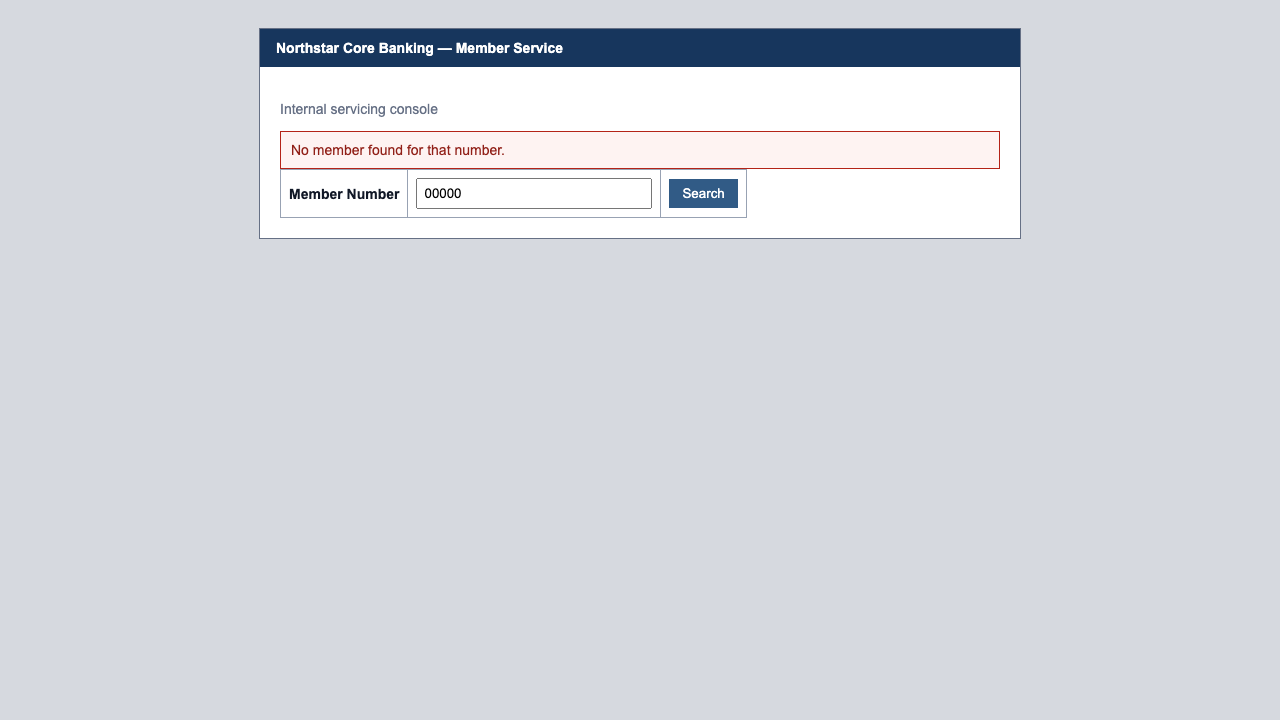
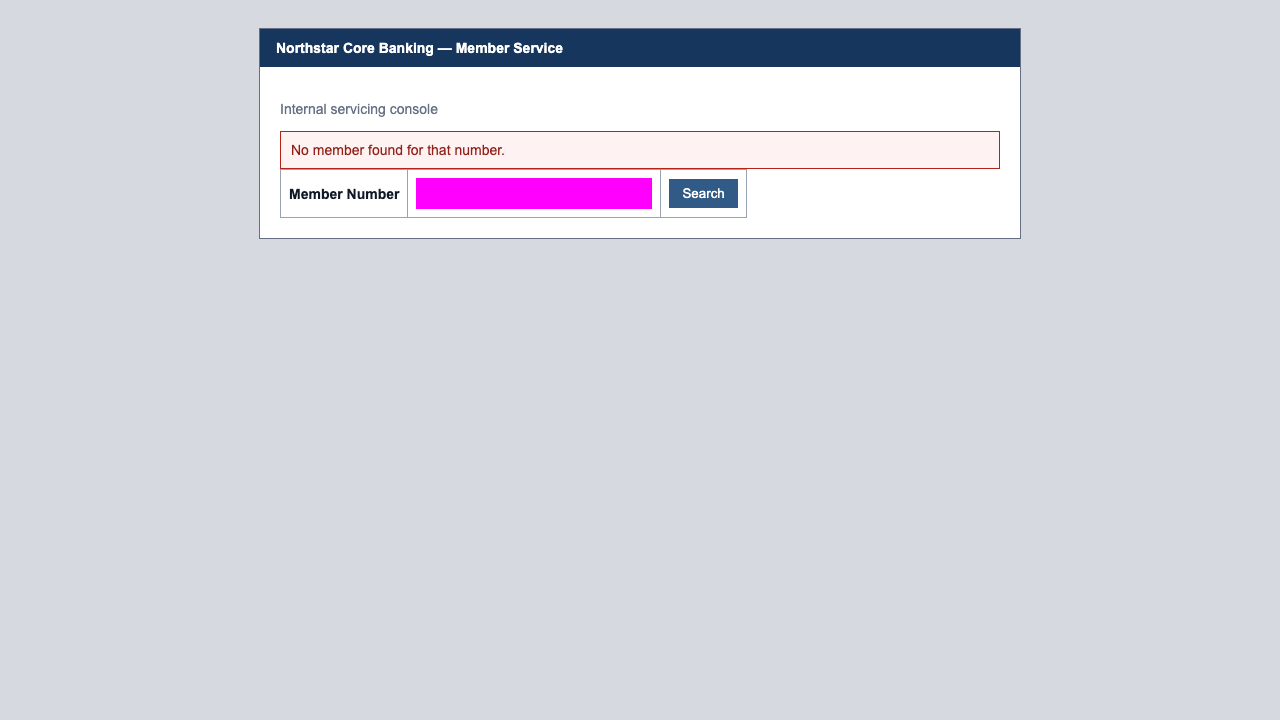
Demonstrate handoff and redact sensitive outputs

Changed region(s): [[0.3125, 0.2444, 0.5312, 0.3056]]

diff --git a/scripts/cli.ts b/scripts/cli.ts
@@ -16,13 +16,14 @@ import { PlaywrightWebSurface } from "../packages/surface/src/index.js";
 import { compileCapability } from "../packages/profiles/src/index.js";
 import { ActionPolicy } from "../packages/policy/src/index.js";
 import { approveArtifact, assessStability } from "../packages/approval/src/index.js";
+import { HandoffController, type InterventionRequest } from "../packages/handoff/src/index.js";
 
 type CliOptions = Record<string, string>;
 
 export function parseCliArgs(arguments_: string[]): { command: string; options: CliOptions } {
   const [command, ...rest] = arguments_;
-  if (!command || !["discover", "replay", "exceptional", "qualify"].includes(command)) {
-    throw new Error("Usage: cli.ts <discover|replay|exceptional|qualify> [--key value]");
+  if (!command || !["discover", "replay", "exceptional", "qualify", "handoff"].includes(command)) {
+    throw new Error("Usage: cli.ts <discover|replay|exceptional|qualify|handoff> [--key value]");
   }
   const options: CliOptions = {};
   for (let index = 0; index < rest.length; index += 2) {
@@ -37,20 +38,77 @@ export function parseCliArgs(arguments_: string[]): { command: string; options: 
 export async function runCli(arguments_: string[]): Promise<unknown> {
   const { command, options } = parseCliArgs(arguments_);
   const port = Number(options.port ?? 4173);
-  if (!Number.isInteger(port) || port < 1 || port > 65_535) throw new Error("--port must be a valid TCP port");
+  if (!Number.isInteger(port) || port < 0 || port > 65_535) throw new Error("--port must be a valid TCP port");
   const server = await startTargetServer(port);
+  const address = server.address();
+  if (!address || typeof address === "string") throw new Error("Target server has no TCP port");
+  const actualPort = address.port;
   try {
-    if (command === "discover") return await discover(options, port);
-    if (command === "qualify") return await qualify(options, port);
-    if (command === "replay") return await replay(options, port, command);
+    if (command === "discover") return await discover(options, actualPort);
+    if (command === "qualify") return await qualify(options, actualPort);
+    if (command === "handoff") return await handoffDemo(options, actualPort);
+    if (command === "replay") return await replay(options, actualPort, command);
     return await replay({
       ...options,
       artifact: options.artifact ?? "capabilities/read_savings_balance.json",
       "member-id": "00000",
       output: options.output ?? "evidence/exceptional-run/result.json"
-    }, port, command);
+    }, actualPort, command);
   } finally {
     await new Promise<void>((resolveClose, reject) => server.close((error) => error ? reject(error) : resolveClose()));
+  }
+}
+
+async function handoffDemo(options: CliOptions, port: number) {
+  const artifactPath = resolve(options.artifact ?? "capabilities/read_savings_balance.json");
+  const output = resolve(options.output ?? "evidence/handoff/result.json");
+  const evidenceDirectory = `${output.slice(0, -5)}-run`;
+  const memberId = options["member-id"] ?? "67890";
+  const artifact = JSON.parse(await readFile(artifactPath, "utf8"));
+  artifact.lifecycle = "draft";
+  delete artifact.approval;
+  artifact.capability.target.entrypoint = `http://127.0.0.1:${port}/members?scenario=blocked`;
+  const searchStep = artifact.steps.find((step: { id?: string }) => step.id === "search_member");
+  if (searchStep) searchStep.timeoutMs = 1_000;
+  const observer = new FileRunObserver(evidenceDirectory, new Redactor([memberId]));
+  const surface = await PlaywrightWebSurface.launch({ headless: options.headless !== "false" });
+  let routed: InterventionRequest | undefined;
+  let handoff: HandoffController;
+  handoff = new HandoffController(surface, {
+    evidenceDirectory,
+    router: {
+      async route(request) {
+        routed = request;
+        const operator = handoff.takeControl(options.operator ?? "demo_operator");
+        await operator.click({
+          description: "Blocking host dialog dismissal",
+          locators: [{ strategy: "role", role: "button", value: "Dismiss blocking dialog", exact: true }],
+          requireUnique: true
+        });
+        operator.resume("Dismissed the unexpected host notice; resume the recorded step");
+      }
+    }
+  });
+  try {
+    const result = await new ReplayEngine(surface, undefined, handoff, observer).run(artifact, { member_id: memberId });
+    const demonstration = {
+      ...result,
+      intervention: routed ? {
+        requestId: routed.id,
+        stepId: routed.stepId,
+        failureCode: routed.failure.code,
+        operator: options.operator ?? "demo_operator",
+        action: "Dismiss blocking dialog",
+        note: "Dismissed the unexpected host notice; resume the recorded step",
+        resumed: result.status === "success"
+      } : undefined
+    };
+    await mkdir(dirname(output), { recursive: true });
+    await writeFile(output, `${JSON.stringify(demonstration, null, 2)}\n`);
+    await surface.screenshot(resolve(evidenceDirectory, "final.png"), { maskSensitive: true });
+    return { ...demonstration, result: output };
+  } finally {
+    await surface.close();
   }
 }
 

diff --git a/tests/cli.test.ts b/tests/cli.test.ts
@@ -1,6 +1,9 @@
 import assert from "node:assert/strict";
+import { mkdtemp, readFile } from "node:fs/promises";
+import { tmpdir } from "node:os";
+import { join } from "node:path";
 import { test } from "node:test";
-import { parseCliArgs } from "../scripts/cli.js";
+import { parseCliArgs, runCli } from "../scripts/cli.js";
 
 test("parses reviewer CLI commands and options", () => {
   assert.deepEqual(parseCliArgs(["discover", "--mode", "scripted", "--member-id", "12345"]), {
@@ -13,6 +16,27 @@ test("parses artifact qualification options", () => {
   assert.deepEqual(parseCliArgs(["qualify", "--runs", "3", "--reviewer", "qasim@example.test"]), {
     command: "qualify", options: { runs: "3", reviewer: "qasim@example.test" }
   });
+});
+
+test("runs a reviewer-facing handoff demo and redacts its sensitive output log", async () => {
+  const directory = await mkdtemp(join(tmpdir(), "automation-handoff-"));
+  const output = join(directory, "result.json");
+  const result = await runCli([
+    "handoff", "--port", "0", "--member-id", "67890", "--operator", "reviewer", "--output", output
+  ]) as {
+    status: string;
+    outputs: { current_balance: string };
+    intervention: { requestId: string; stepId: string; failureCode: string; operator: string; resumed: boolean };
+  };
+  assert.equal(result.status, "success");
+  assert.equal(result.outputs.current_balance, "$912.04");
+  assert.equal(result.intervention.stepId, "search_member");
+  assert.equal(result.intervention.failureCode, "timeout");
+  assert.equal(result.intervention.operator, "reviewer");
+  assert.equal(result.intervention.resumed, true);
+  const events = await readFile(join(directory, "result-run", "events.jsonl"), "utf8");
+  assert.doesNotMatch(events, /\$912\.04/);
+  assert.match(events, /"current_balance":"\[REDACTED\]"/);
 });
 
 test("rejects unknown commands and incomplete options", () => {

diff --git a/apps/target/src/server.ts b/apps/target/src/server.ts
@@ -10,6 +10,8 @@ body{font:14px Arial,sans-serif;background:#d6d9df;margin:0;color:#111827}table{
 .content{padding:20px}td{padding:8px;border:1px solid #98a2b3}label{font-weight:bold}input{padding:6px;width:220px}
 button,a.button{display:inline-block;background:#315b86;color:#fff;border:0;padding:7px 13px;text-decoration:none;cursor:pointer}
 .notice{padding:10px;border:1px solid #b42318;background:#fef3f2;color:#912018}.muted{color:#667085}
+.blocker{position:fixed;inset:0;background:rgba(17,24,39,.72);display:flex;align-items:center;justify-content:center;z-index:10}
+.dialog{background:#fff;padding:24px;border:2px solid #17365d;max-width:360px}
 </style></head><body><div class="shell"><div class="bar">Northstar Core Banking — Member Service</div><div class="content">${body}</div></div></body></html>`;
 
 type TenantVariant = {
@@ -33,7 +35,10 @@ const searchPage = (variant: TenantVariant, message = "", memberId = "", scenari
     <td><input id="member-number" name="${variant.idField}" value="${memberId}" inputmode="numeric" autocomplete="off"></td>
     <td><button type="submit">${variant.searchLabel}</button></td></tr></table>
     ${scenario ? `<input type="hidden" name="scenario" value="${scenario}">` : ""}
-  </form>`);
+  </form>
+  ${scenario === "blocked" ? `<div class="blocker" role="dialog" aria-label="Unexpected host notice">
+    <div class="dialog"><p>An unexpected host notice is blocking automation.</p>
+    <button type="button" onclick="this.closest('.blocker').remove()">Dismiss blocking dialog</button></div></div>` : ""}`);
 
 export function createRequestHandler() {
   const transientAttempts = new Map<string, number>();

diff --git a/packages/discovery/src/discovery.ts b/packages/discovery/src/discovery.ts
@@ -118,7 +118,10 @@ export class DiscoveryRunner {
           success: action.success,
           metadata: { createdAt: new Date().toISOString(), discoveryRunId: runId }
         });
-        await this.observer.record({ runId, phase: "discovery", type: "run_succeeded", details: { outputs } });
+        await this.observer.record({
+          runId, phase: "discovery", type: "run_succeeded",
+          details: { outputs: redactSensitiveOutputs(request.contract, outputs) }
+        });
         return { runId, artifact, outputs, turns };
       }
 
@@ -240,6 +243,16 @@ function validateCompleteOutputs(contract: DiscoveryRequest["contract"], outputs
     if (!(output.name in outputs)) throw new Error(`Required output ${output.name} was not produced`);
     validateOutput(output.name, outputs[output.name], contract);
   }
+}
+
+function redactSensitiveOutputs(
+  contract: DiscoveryRequest["contract"],
+  outputs: Record<string, unknown>
+): Record<string, unknown> {
+  const sensitive = new Set(contract.outputs.filter((output) => output.sensitive).map((output) => output.name));
+  return Object.fromEntries(
+    Object.entries(outputs).map(([name, value]) => [name, sensitive.has(name) ? "[REDACTED]" : value])
+  );
 }
 
 function remaining(deadline: number): number {

diff --git a/packages/replay/src/replay.ts b/packages/replay/src/replay.ts
@@ -84,7 +84,10 @@ export class ReplayEngine {
       }
       validateOutputs(artifact, outputs);
       await this.verify(artifact.success, artifact, inputs);
-      await this.observer.record({ runId, phase: "replay", type: "run_succeeded", details: { outputs } });
+      await this.observer.record({
+        runId, phase: "replay", type: "run_succeeded",
+        details: { outputs: redactSensitiveOutputs(artifact, outputs) }
+      });
       return replayResultSchema.parse({
         runId,
         capabilityName: artifact.capability.name,
@@ -318,6 +321,18 @@ function validateOutputs(artifact: CapabilityArtifact, outputs: Record<string, u
       throw new ExecutionError("output_invalid", `Output ${declaration.name} did not match its declared pattern`, declaration.pattern, String(value));
     }
   }
+}
+
+function redactSensitiveOutputs(
+  artifact: CapabilityArtifact,
+  outputs: Record<string, unknown>
+): Record<string, unknown> {
+  const sensitive = new Set(
+    artifact.contract.outputs.filter((output) => output.sensitive).map((output) => output.name)
+  );
+  return Object.fromEntries(
+    Object.entries(outputs).map(([name, value]) => [name, sensitive.has(name) ? "[REDACTED]" : value])
+  );
 }
 
 function messageOf(error: unknown): string {

diff --git a/packages/discovery/src/member-balance-plan.ts b/packages/discovery/src/member-balance-plan.ts
@@ -25,6 +25,7 @@ export function memberBalanceRequest(entrypoint: string, memberId: string): Disc
       inputs: [{ name: "member_id", type: "string", description: "Member number", required: true, sensitive: true }],
       outputs: [{
         name: "current_balance", type: "string", description: "Displayed savings balance",
+        sensitive: true,
         pattern: "^\\$[0-9,]+\\.[0-9]{2}$"
       }]
     },

diff --git a/packages/contracts/src/capability.ts b/packages/contracts/src/capability.ts
@@ -68,7 +68,8 @@ export const capabilityArtifactSchema = z.object({
   }),
   contract: z.object({
     inputs: z.array(parameterSchema),
-    outputs: z.array(parameterSchema.omit({ required: true, sensitive: true }).extend({
+    outputs: z.array(parameterSchema.omit({ required: true }).extend({
+      sensitive: z.boolean().optional(),
       pattern: z.string().min(1).optional()
     }))
   }),

diff --git a/REPORT.md b/REPORT.md
@@ -14,7 +14,7 @@ I chose a local member-service app instead of a public demo site. That makes the
 
 The artifact is versioned JSON validated at load time. Its top-level contract identifies the capability and target, declares typed inputs and outputs, stores the ordered steps, defines known business outcomes, and ends with an explicit success checkpoint. Metadata links it back to the discovery run without embedding the raw model transcript. Discovery emits a `draft`; qualification can promote it to `approved` with reviewer identity, timestamp, stability results, and a SHA-256 digest over the executable payload.
 
-Each step describes one action and its intent, enforced timeout, optional retry budget, risk classification, and checkpoint. Targets carry an ordered list of locator candidates plus a uniqueness requirement. Inputs are referenced as `${inputs.member_id}` rather than captured values, and outputs may declare a semantic pattern; the balance contract, for example, refuses to accept the label “Current Balance” as though it were a dollar amount. Validation also rejects duplicate identifiers, unknown template references, and outputs without exactly one extraction step.
+Each step describes one action and its intent, enforced timeout, optional retry budget, risk classification, and checkpoint. Targets carry an ordered list of locator candidates plus a uniqueness requirement. Inputs are referenced as `${inputs.member_id}` rather than captured values, and outputs may declare a semantic pattern and sensitivity; the balance contract, for example, validates the currency shape but redacts its value from telemetry. Validation also rejects duplicate identifiers, unknown template references, and outputs without exactly one extraction step.
 
 The schema is deliberately data rather than generated code. It can be reviewed, diffed, signed, migrated, or rejected before execution, and the replay engine never evaluates arbitrary source text. Production-style replay can require approval and rejects both drafts and artifacts changed after review. The default qualification policy requires three successful fresh-session runs with identical outputs; its thresholds are explicit inputs rather than a vague model confidence score.
 
@@ -44,13 +44,13 @@ Replay can attach a `HandoffController` to an exhausted hard failure. The contro
 
 The operator acts through an `OperatorSession` backed by that same surface. Navigation, clicks, and fills are recorded with timestamps and operator identity, while filled values are represented as redacted descriptions. When the operator signals resume, ownership passes through `automation_resuming` and back to `automation`. Replay then gets one bounded retry of the blocked step, which covers cases such as dismissing an unfamiliar dialog or repairing session state without turning handoff into an unbounded recovery loop.
 
-The tests exercise both halves of this contract. A real Chromium test proves that the operator reaches and changes the exact page automation paused. A replay integration test injects a blocking condition, waits for human repair, resumes, and completes the previously blocked step. I intentionally did not build a polished co-browsing console; the ownership and session-transfer mechanism is the important seam.
+The tests exercise both halves of this contract. A real Chromium test proves that the operator reaches and changes the exact page automation paused. A replay integration test injects a blocking condition, waits for human repair, resumes, and completes the previously blocked step. The documented `demo:handoff` command makes that flow reviewer-runnable: it injects an unexpected blocking dialog and uses an identified demo operator at the router seam to repair and resume the same session. I intentionally did not build a polished co-browsing console; the ownership and session-transfer mechanism is the important seam.
 
 ## 6. Safety
 
 An `ActionPolicy` sits in both execution paths. It allowlists action types, origin patterns, and route patterns before the surface receives an action. Steps are treated as read-only, reversible, or irreversible; the irreversible class requires an approval provider and is denied when none is present. Irreversible steps must declare a postcondition and cannot carry automatic retries; after handoff, replay verifies that postcondition instead of repeating a possibly committed action. Policy enforcement is code, not a prompt instruction, and tests confirm that a denied replay performs no navigation.
 
-Sensitive runtime inputs are parameterized before artifact persistence. Observability recursively redacts configured values and PII-shaped keys before writing JSONL; handoff observations redact sensitive inputs and extracted data. Failure and handoff screenshots use the surface's masking mode, which covers form inputs and elements marked as sensitive or extracted data. API keys live in `.env`, which is ignored by Git, and mocked Anthropic tests ensure routine tests cannot spend money or contact the model.
+Sensitive runtime inputs are parameterized before artifact persistence, and output declarations can independently mark returned values as sensitive. Replay and discovery preserve those values in their typed caller-facing result while replacing them with `[REDACTED]` in event telemetry. Observability also recursively redacts configured values and PII-shaped keys; handoff observations redact sensitive inputs and extracted data. Failure and handoff screenshots mask form inputs and elements marked as sensitive or extracted data. API keys live in `.env`, which is ignored by Git, and mocked Anthropic tests ensure routine tests cannot spend money or contact the model.
 
 This is still a prototype safety model. Regex-configured routes would become centrally managed policies, approvals would be authenticated and durable, and screenshot masking would need OCR/image-aware detection plus encrypted retention for unannotated legacy screens. I would also sign approved artifacts and bind policy versions to execution records so a reviewer could reconstruct exactly what was permitted at run time.
 

diff --git a/README.md b/README.md
@@ -53,13 +53,19 @@ To demonstrate an expected business outcome rather than a crash:
 npm run demo:exceptional
 ```
 
+To demonstrate human escalation, run the intentionally blocked replay. It exhausts its bounded retry, routes an intervention with redacted context, lets an identified demo operator dismiss the blocking dialog in the same browser session, and then resumes deterministically:
+
+```bash
+npm run demo:handoff -- --operator your_name
+```
+
 The same replay can be compiled for a visibly different tenant through a reviewed application profile and locator overlay:
 
 ```bash
 npm run demo:replay -- --artifact capabilities/read_savings_balance.json --profile profiles/northstar_core.profile.json --overlay profiles/demo_credit_union.overlay.json --member-id 67890
 ```
 
-Expected results are `$4,281.36` for member `12345`, `$912.04` for member `67890`, and `member_not_found` for the exceptional command. Each run writes redacted JSONL events and a final screenshot beside its output.
+Expected results are `$4,281.36` for member `12345`, `$912.04` for member `67890`, and `member_not_found` for the exceptional command. Each run writes redacted JSONL events and a final screenshot beside its output; sensitive outputs remain in the caller-facing result but are replaced with `[REDACTED]` in telemetry.
 
 ## How it fits together
 
@@ -73,7 +79,7 @@ The hand-authored capability in `capabilities/read_savings_balance.json` shows h
 
 `evidence/live-run` contains a genuine six-turn Claude Sonnet 5 discovery, the generated artifact, redacted discovery and replay logs, token usage, screenshots, and a successful model-free replay using a different member. That canonical discovery used 12,353 input tokens and 1,261 output tokens.
 
-`evidence/exceptional-run` contains a deterministic replay that returns `member_not_found`, including its structured event log and final UI state. `evidence/approval` demonstrates three-run qualification and an approval-gated replay. `evidence/cross-tenant` proves that the unchanged base artifact works against a second variant with different routes, labels, navigation, and output selectors. The artifact comparison files provide a reproducible four-case comparison between the Claude-discovered and engineered artifacts.
+`evidence/exceptional-run` contains a deterministic replay that returns `member_not_found`, including its structured event log and final UI state. `evidence/handoff` captures a blocked replay, routed intervention, same-session operator repair, and successful resume. `evidence/approval` demonstrates three-run qualification and an approval-gated replay. `evidence/cross-tenant` proves that the unchanged base artifact works against a second variant with different routes, labels, navigation, and output selectors. The artifact comparison files provide a reproducible four-case comparison between the Claude-discovered and engineered artifacts.
 
 Regenerate the live evidence with `npm run evidence:live`, or regenerate the comparison without an API key using `npm run evidence:compare`. All member records are synthetic.
 

diff --git a/evidence/README.md b/evidence/README.md
@@ -17,3 +17,5 @@ All member records are synthetic. Recreate this evidence with `npm run evidence:
 `approval/` contains a draft qualification promoted after three consistent fresh-session replays, followed by a replay that requires and verifies the saved approval. It uses a demonstration reviewer identity and requires no API key.
 
 `cross-tenant/` replays one unchanged base artifact against two visibly different variants. The second run changes its route family, labels, navigation text, and output selectors through the reviewed tenant overlay; both runs return the same typed result without discovery or model use.
+
+`handoff/` demonstrates the reviewer-runnable escalation path. An injected dialog blocks the recorded search, bounded attempts exhaust, an identified demo operator takes over the same browser session through the router seam, dismisses it, and returns control for a successful replay.

diff --git a/evidence/handoff/README.md b/evidence/handoff/README.md
@@ -1,0 +1,5 @@
+# Human handoff evidence
+
+Run `npm run demo:handoff -- --operator your_name` from the repository root. The command deliberately places an unexpected host dialog over the search control, exhausts the recorded step's two-attempt budget, and routes a redacted intervention request.
+
+The demo router represents the operator-console seam: the named operator takes ownership of the same Playwright session, dismisses the dialog, records the intervention, and returns control. Replay then retries only the blocked reversible step and completes with no model call. `result.json` records the failure classification, operator, and successful resume; `result-run/events.jsonl` contains the redacted replay events, while the PNGs show the masked handoff and final states.

diff --git a/evidence/artifact-comparison.md b/evidence/artifact-comparison.md
@@ -4,7 +4,7 @@ Both artifacts contain 5 steps and parameterize the runtime member ID. The Claud
 
 | Property | Engineered artifact | Claude-discovered artifact |
 | --- | ---: | ---: |
-| Locator candidates | 6 | 6 |
+| Locator candidates | 5 | 6 |
 | Step checkpoints | 3 | 1 |
 | Explicit risk labels | 5 | 0 |
 | Retrying steps | 1 | 0 |
